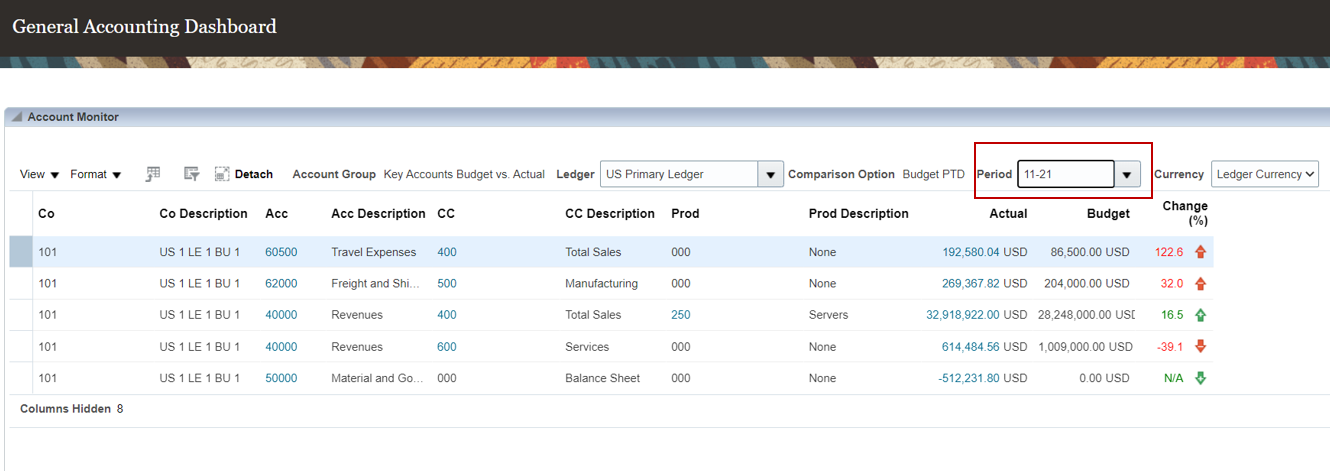
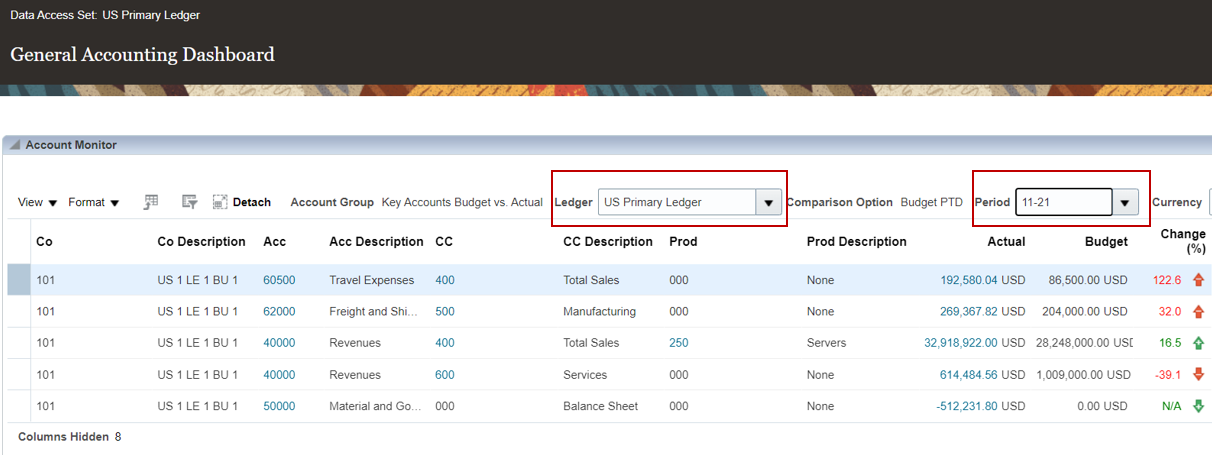
WMS 11179: Fixes for OCW (#89)
* WMS 11179: Initial workshop creation for CloudWorld HOL4045

WMS 11179: Initial workshop creation for CloudWorld HOL4045

* WMS 11179: quick fix for objectives

WMS 11179: quick fix for objectives

* WMS 11179: Updates to workshop

WMS 11179: Updates to workshop

* WMS 11179: Final lab added

WMS 11179: Final lab added

* WMS ID 11179  Fixed typos and images

WMS ID 11179  Fixed typos and images

* Fixing manifest OCW WMSID 11231, 11240, 11241, 11242, 11243, 11244, 11245, 11246, 11247

Fixing manifest OCW WMSID 11231, 11240, 11241, 11242, 11243, 11244, 11245, 11246, 11247

* WMS 11149: fix ocw manifest

WMS 11149: fix ocw manifest

* WMS 11179: Fix OCW manifest

WMS 11179: Fix OCW manifest

* WMS 11179: Fixes for OCW

WMS 11179: Fixes for OCW

diff --git a/apps-cloud-adventure-cfo/02-manage-monitor/account-monitor.md b/apps-cloud-adventure-cfo/02-manage-monitor/account-monitor.md
@@ -10,11 +10,11 @@ Estimated Time: 6 minutes
 ### Objectives
 
 In this activity, you will:
-* Monitor any account code combination
+* Easily manage monitoring Key Accounts, Account Balance KPIs and drilldown seamlessly from a Summary account to any Subledger Transaction details
 
 
 
-## Task 1: Manage Journals
+## Task 1: Account Monitor
 
 
 1. 
@@ -30,7 +30,7 @@ In this activity, you will:
 
   Here’s where you can visualize all the key accounts along with the KPIs that are most important to you. This screen also provides you a single place to visualize Intercompany Journals, Standard Journals and Period Statuses for all the Subledgers.	
 
-    > **Scroll from top of the screen** to visualize Account Monitor, Intercompany Journals, Standard Journals and Period Statuses. Change the Period to “11-21” if it is not “11-21”
+    > **Scroll from top of the screen** to visualize Account Monitor, Intercompany Journals, Standard Journals and Period Statuses. **Change the Period** to **‘11-21’** if it is not ‘**11-21’**. **Change the Ledger** to ‘**US Primary Ledger**’ if it is not already set.”
 
     ![Home Page](images/image002.png)
 

diff --git a/apps-cloud-adventure-cfo/03-risk-mgmt/risk-management.md b/apps-cloud-adventure-cfo/03-risk-mgmt/risk-management.md
@@ -41,7 +41,7 @@ In this activity, you will:
 
 4. 
 
-      > **Select** Results Count **‘43’** – to see results. Take note the number of results.
+      > **Select** Results Count **‘51’** – to see results. Take note the number of results.
 
     ![Results Count](images/image004.png)
 
@@ -101,7 +101,7 @@ In this activity, you will:
 
     > **•	Enter the name as ‘Amount’**
     > **•	Change condition to ‘Greater than’ or ‘Greater than or equal to’**
-    > **•	Enter a material limit in Value field** (NOTE – Value should be less than 350,000) **
+    > **•	Enter a material limit in Value field** (NOTE – Value should be less than 9,000) **
 
     ![Change condition](images/image013.png)
 
